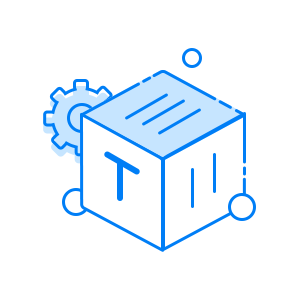
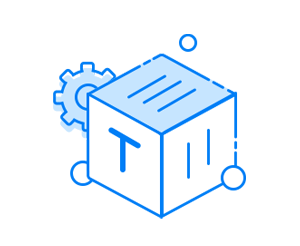
update no_data image ,fix issue

diff --git a/src/components/StorageModule/Storage.js b/src/components/StorageModule/Storage.js
@@ -10,7 +10,7 @@
 
 import React, { Component, PropTypes } from 'react'
 import ReactDOM from 'react-dom'
-import { Checkbox, Card, Menu, Button, Dropdown, Icon, Radio, Modal, Input, Slider, InputNumber, Row, Col, Tooltip } from 'antd'
+import { Checkbox, Card, Menu, Button, Dropdown, Icon, Radio, Modal, Input, Slider, InputNumber, Row, Col, Tooltip ,Spin} from 'antd'
 import { Link } from 'react-router'
 import { injectIntl, FormattedMessage, defineMessages } from 'react-intl'
 import QueueAnim from 'rc-queue-anim'
@@ -23,6 +23,7 @@ import './style/storage.less'
 import { calcuDate, parseAmount } from '../../common/tools'
 import { volNameCheck } from '../../common/naming_validation'
 import NotificationHandler from '../../common/notification_handler'
+import noStorageImg from '../../assets/img/no_data/no_storage.png'
 
 const RadioButton = Radio.Button;
 const RadioGroup = Radio.Group;
@@ -274,14 +275,7 @@ let MyComponent = React.createClass({
   render() {
     const { formatMessage } = this.props.intl
     let list = this.props.storage;
-    if (!list || !list.storageList) return (<div className='loadingBox'>暂无数据</div>)
-    if (list.storageList.length < 1) {
-      return (
-        <div className='loadingBox'>
-          暂无数据
-        </div>
-      )
-    }
+
     let items = list.storageList.map((item) => {
       const menu = (<Menu onClick={(e) => { this.showAction(e, 'format', item.name, item.format) } } style={{ width: '80px' }}>
         <Menu.Item key="1" disabled={item.isUsed}><FormattedMessage {...messages.formatting} /></Menu.Item>
@@ -370,7 +364,7 @@ let MyComponent = React.createClass({
               </div>
               <div className="price-unit">
                 <p>合计：<span className="unit">{hourPrice.unit == '￥'? '￥': ''}</span><span className="unit blod"> { hourPrice.amount }{hourPrice.unit == '￥'? '': 'T'}/小时</span></p>
-    <p><span className="unit">（约：</span><span className="unit"> { countPrice.fullAmount }/小时）</span></p>
+                <p><span className="unit">（约：</span><span className="unit"> { countPrice.fullAmount }/小时）</span></p>
               </div>
             </div>
 
@@ -672,9 +666,18 @@ class Storage extends Component {
   render() {
     const { formatMessage } = this.props.intl
     if (!this.props.currentCluster.resourcePrice) return <div></div>
+    if (!this.props.storageList[this.props.currentImagePool]) return <div></div>
     const storagePrice = this.props.currentCluster.resourcePrice.storage /10000
     const hourPrice = parseAmount(this.state.size / 1024 * this.props.currentCluster.resourcePrice.storage, 4)
     const countPrice = parseAmount(this.state.size / 1024 * this.props.currentCluster.resourcePrice.storage * 24 *30, 4)
+    const dataStorage = this.props.storageList[this.props.currentImagePool].storageList
+    if (this.props.storageList[this.props.currentImagePool].isFetching) {
+      return (
+        <div className="loadingBox">
+          <Spin size="large"></Spin> 
+        </div>
+      ) 
+    }
     return (
       <QueueAnim className="StorageList" type="right">
         <div id="StorageList" key="StorageList">
@@ -751,6 +754,8 @@ class Storage extends Component {
             </div>
             <div className="clearDiv"></div>
           </div>
+          {dataStorage.length >0 ?
+    
           <Card className="storageBox appBox">
             <div className="appTitle">
               <div className="selectIconTitle commonTitle">
@@ -775,6 +780,9 @@ class Storage extends Component {
               scope ={ this }
               />
           </Card>
+          :
+          <div className='text-center'><img src={noStorageImg} /><div>您还没有存储卷，创建一个吧！ <Button type="primary" size="large" onClick={this.showModal}>创建</Button></div></div>
+          } 
         </div>
       </QueueAnim>
     )
@@ -789,7 +797,7 @@ Storage.propTypes = {
 function mapStateToProps(state) {
   const { cluster } = state.entities.current
   return {
-    storageList: state.storage.storageList,
+    storageList: state.storage.storageList || [],
     createStorage: state.storage.createStorage,
     deleteStorage: state.storage.deleteStorage,
     currentImagePool: DEFAULT_IMAGE_POOL,

diff --git a/src/components/ServiceConfig/Service.js b/src/components/ServiceConfig/Service.js
@@ -20,7 +20,7 @@ import NotificationHandler from '../../common/notification_handler'
 import { connect } from 'react-redux'
 import remove from 'lodash/remove'
 import { loadConfigGroup, configGroupName, createConfigGroup, deleteConfigGroup } from '../../actions/configs'
-
+import noConfigGroupImg from '../../assets/img/no_data/no_config.png'
 
 class CollapseList extends Component {
   constructor(props) {
@@ -62,7 +62,14 @@ class CollapseList extends Component {
         </div>
       )
     }
-    if (groupData.length === 0) return (<div style={{ lineHeight: '50px', 'padding-left': '45%' }}>暂无数据</div>)
+    if (groupData.length === 0) {
+      return (
+        <div className="text-center">
+          <img src={noConfigGroupImg} />
+          <div>您还没有配置组，创建一个吧！<Button type="primary" size="large" onClick={() => this.props.scope.configModal(true)}>创建</Button></div>
+        </div>
+      )
+    }
     let groups = groupData.map((group) => {
       return (
         <Collapse.Panel
@@ -267,13 +274,14 @@ class Service extends Component {
             <div className="create-conf-g" style={{ padding: '20px 0' }}>
               <div style={{ height: 25 }}>
                 <span style={{ width: '50px', display: 'inline-block', fontSize: '14px' }}> 名称 : </span>
-                <Input type="text" ref={(ref) => { this.nameInput = ref; } } style={{ width: '80%' }} value={this.state.myTextInput} onPressEnter={() => this.btnCreateConfigGroup()} onChange={(e) => this.createModalInput(e)} />
+                <Input type="text" size="large" ref={(ref) => { this.nameInput = ref; } } style={{ width: '80%' }} value={this.state.myTextInput} onPressEnter={() => this.btnCreateConfigGroup()} onChange={(e) => this.createModalInput(e)} />
               </div>
             </div>
           </Modal>
           {/*创建配置组-弹出层-end*/}
           {/*折叠面板-start*/}
           <CollapseList
+            scope={this}
             cluster={cluster}
             loadConfigGroup={this.props.loadConfigGroup}
             groupData={configGroup}

diff --git a/src/components/AppModule/AppServiceDetail/AppServiceRental.js b/src/components/AppModule/AppServiceDetail/AppServiceRental.js
@@ -83,7 +83,7 @@ class AppServiceRental extends Component {
           <tr key={index}>
             <td>{list.metadata.name}</td>
             <td>{this.formetCpuMemory(list.spec.template.spec.containers[0].resources.requests.memory)}</td>
-            <td>{serviceDetail[0].spec.replicas}</td>
+            <td>{list.spec.replicas}</td>
             <td>{this.formetPrice(list.spec.template.spec.containers[0].resources.requests.memory) /10000 } {countPrice.unit == '￥' ? '元': 'T'}/小时</td>
           </tr>
         )
@@ -111,7 +111,7 @@ class AppServiceRental extends Component {
                   <th>名称</th>
                   <th>计算（CPU/内存）</th>
                   <th>数量</th>
-                  <th>价格</th>
+                  <th>单价</th>
                 </tr>
               </thead>
               <tbody>

diff --git a/src/components/DatabaseCache/MysqlCluster.js b/src/components/DatabaseCache/MysqlCluster.js
@@ -22,6 +22,7 @@ import NotificationHandler from '../../common/notification_handler'
 import { formatDate } from '../../common/tools.js'
 import './style/MysqlCluster.less'
 import mysqlImg from '../../assets/img/test/mysql.jpg'
+import noDbImgs from '../../assets/img/no_data/no_db.png'
 
 let MyComponent = React.createClass({
   propTypes: {
@@ -46,8 +47,9 @@ let MyComponent = React.createClass({
     }
     if (config.length == 0) {
       return (
-        <div className='loadingBox'>
-          <span>暂无数据</span>
+        <div className="text-center">
+          <img src={noDbImgs} />
+          <div>还没有MySQL集群，创建一个！ <Button type="primary" size="large" onClick={()=> this.props.scope.createDatabaseShow()}>创建集群</Button></div>
         </div>
       )
     }

diff --git a/src/components/DatabaseCache/RedisCluster.js b/src/components/DatabaseCache/RedisCluster.js
@@ -24,6 +24,7 @@ import { formatDate } from '../../common/tools.js'
 // import './style/RedisCluster.less'
 import './style/MysqlCluster.less'
 import redisImg from '../../assets/img/test/redis.jpg'
+import noDbImgs from '../../assets/img/no_data/no_db.png'
 
 let MyComponent = React.createClass({
   propTypes: {
@@ -48,8 +49,9 @@ let MyComponent = React.createClass({
     }
     if (!config ||config.length == 0) {
       return (
-        <div className='loadingBox'>
-          <span>暂无数据</span>
+        <div className="text-center">
+          <img src={noDbImgs} />
+          <div>还没有Redis集群，创建一个！ <Button type="primary" size="large" onClick={()=> this.props.scope.createDatabaseShow()}>创建集群</Button></div>
         </div>
       )
     }

diff --git a/src/components/AppCenter/AppStore.js b/src/components/AppCenter/AppStore.js
@@ -63,7 +63,7 @@ const MyComponent = React.createClass({
           <div className="imageBox">
             {item.imageList.map((imageDetail) => {
               return (
-                <Card className="imageDetail">
+                <Card className="imageDetail" key={imageDetail.name}>
                   <div className="imgBox" onClick={()=>this.showDetail(imageDetail.id)}>
                     <img className={imageDetail.name.split(' ')[0]} src={`${imageDetail.imageUrl}?_=${TIMESTRAP}`} />
                   </div>

diff --git a/src/reducers/storage.js b/src/reducers/storage.js
@@ -36,7 +36,7 @@ function storageList(state = {}, action) {
         }
       })
     case ActionTypes.STORAGE_LIST_FAILURE:
-      return merge({}, defaultState, state, {
+      return Object.assign({}, state, defaultState, {
         [pool]: { isFetching: false }
       })
     default:

diff --git a/src/actions/cicd_flow.js b/src/actions/cicd_flow.js
@@ -160,7 +160,7 @@ function fetchAddCodeRepo(type, obj, callback) {
         body: body
       }
     },
-    names: obj.name.substr(0, 1).toLowerCase() + obj.name.substr(1),
+    names: obj.name,
     callback: callback
   }
 }
